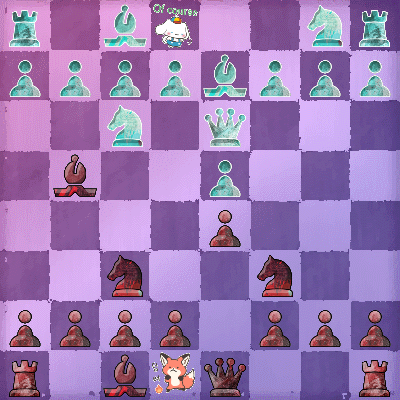
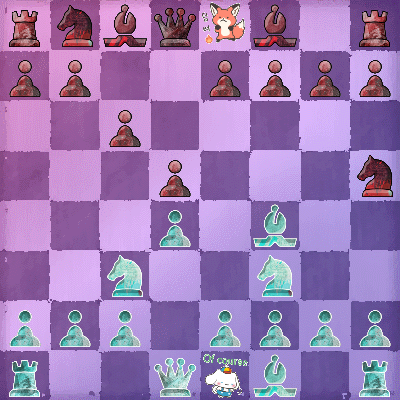
update new skin

diff --git a/src/main/resources/static/js/pgntogif.js b/src/main/resources/static/js/pgntogif.js
@@ -45,7 +45,6 @@ let black_bottom_opt = 0;
         images.push(dir_link + image_link + "/" + i.toString().padStart(2, '0') + imagetype);
     }
 
-
      const gallery = document.getElementById('image_gallery');
      idx = 0;
         // 이미지 배열을 순회하여 갤러리에 추가
@@ -53,24 +52,60 @@ let black_bottom_opt = 0;
             // div.col 생성
             const colDiv = document.createElement('div');
             colDiv.className = 'col-md-4';
-            // img 태그 생성
+            // input 태그 생성
+            const inputElement = document.createElement('input');
+            inputElement.type = 'file';
+            inputElement.id = label_name[idx] + " upload";
+            inputElement.accept = "image/*";
+            inputElement.style = "display: none;";
+            inputElement.addEventListener('change',update_img(idx, label_name[idx]));
+
+            //img 태그 생성
             const imgElement = document.createElement('img');
             imgElement.src = src;
             imgElement.className = 'img-fluid mini';
             imgElement.alt = src;
             imgElement.id = label_name[idx];
+            imgElement.addEventListener('click',uploading(inputElement.id));
 
             const labelDiv = document.createElement('div');
             labelDiv.className = 'label';
-            labelDiv.textContent = label_name[idx];
+            labelDiv.textContent = label_name[idx] + " label";
             idx = idx + 1;
             // colDiv에 img 태그 추가
             colDiv.appendChild(imgElement);
+            colDiv.appendChild(inputElement);
             colDiv.appendChild(labelDiv);
             // gallery 요소에 colDiv 추가
             gallery.appendChild(colDiv);
         });
  }
+
+ function uploading(upload_id)
+ {
+    return function(event){
+      const fileInput = document.getElementById(upload_id);
+      fileInput.click();
+      };
+ }
+
+  function update_img(idx,img_id)
+  {
+         return function(event){
+          const file = event.target.files[0];
+
+          if (file) {
+              const reader = new FileReader();
+              reader.onload = function(e) {
+                  images[idx] = e.target.result;
+                  const img = document.getElementById(img_id);
+                  img.src = images[idx];
+              };
+              reader.readAsDataURL(file);
+          }
+      }
+  }
+
 
   function getDropdownValue() {
              // 드롭다운 요소 가져오기
@@ -80,7 +115,7 @@ let black_bottom_opt = 0;
                 localStorage.setItem('skin_data', selectedValue);
                 image_link = selectedValue;
 
-                  for (let i = 0; i <= 12; i++) {
+                  for (let i = 0; i < 1; i++) {
                         images[i] = dir_link + image_link + "/" + i.toString().padStart(2, '0') + ".png";
                         document.getElementById(label_name[i]).src = images[i];
                         document.getElementById(label_name[i]).alt = images[i];
@@ -94,6 +129,11 @@ let black_bottom_opt = 0;
     pgndata = document.getElementById('pgndata').value;
     const checkedRadio = document.querySelector('input[name="sideRadios"]:checked');
     let black_bottom_opt = checkedRadio.value;
+    let skin_dir = "[";
+    for (let i = 0; i <= 12; i++) {
+        skin_dir = skin_dir + images[i] + ",";
+    }
+    skin_dir = skin_dir.slice(0,-1) + "]";
 
     const checkedSpeed = document.querySelector('input[name="Speeds"]:checked');
     let speed0 = checkedSpeed.value;
@@ -102,6 +142,7 @@ let black_bottom_opt = 0;
       pgndata: pgndata,
       black_bottom_opt: black_bottom_opt,
       input_link : dir_link + image_link,
+      skin_dir : skin_dir,
       delay : speed0
     };
 
@@ -117,7 +158,6 @@ let black_bottom_opt = 0;
       .then(response => response.json())
       .then(data => {
         //console.log(data.output_dir); // 서버의 응답을 처리합니다
-
         gif_src = data.output_dir;
         gif_id = data.id;
         showingGifdata();
@@ -139,7 +179,7 @@ let black_bottom_opt = 0;
          imgElement.className = 'img-fluid midium';
          imgElement.alt = src0;
          imgElement.id = id0;
-          imgElement.addEventListener('click', () => {
+         imgElement.addEventListener('click', () => {
                const link = document.createElement('a');
                link.href = src0;
                link.download = 'result.gif';  // 원하는 파일 이름document.body.appendChild(link);

diff --git a/src/main/resources/templates/pgntogif.html b/src/main/resources/templates/pgntogif.html
@@ -35,17 +35,17 @@
 <section id = "main-part" class ="pt-5 pt-5">
     <div class="dropdown my-3 mx-3">
         <button class="btn btn-primary dropdown-toggle" type="button" id="dropdownMenuButton" data-toggle="dropdown" aria-haspopup="true" aria-expanded="false">
-            Select an skin
             <div class="form-group">
-                <label for="skinselect">choose skin</label>
+                <label for="skinselect">Change Board Skin</label>
                 <select class="form-control" id="skinselect">
-                    <option value="skin1">skin1</option>
-                    <option value="skin2">skin2</option>
+                    <option value="skin1">board1</option>
+                    <option value="skin2">board2</option>
                 </select>
             </div>
+        </button>
     </div>
 
-    <button class="btn btn-primary mx-3" onclick="getDropdownValue()">Get Skin Data</button>
+    <button class="btn btn-primary mx-3" onclick="getDropdownValue()">Change it</button>
 
     <div class="container my-5">
         <h2>Skin Data</h2>

diff --git a/src/main/resources/templates/main.html b/src/main/resources/templates/main.html
@@ -80,7 +80,7 @@
 
 <!-- 스킨 선택창 -->
 <div class="container my-4">
-    <h1 class="text-center mb-4">Select Skin</h1>
+    <h1 class="text-center mb-4">Select Piece Skin</h1>
     <div class="row">
         <!-- Gallery Item 1 -->
         <div class="col-md-4 mb-4">

diff --git a/src/main/resources/static/js/main.js b/src/main/resources/static/js/main.js
@@ -36,7 +36,7 @@
         for (const src of result) {
             count = count + 1;
 
-            if(count > 99)
+            if(count > 9)
             {
                 break;
             }

diff --git a/src/main/java/com/profrog/chessx2/Chessx2Application.java b/src/main/java/com/profrog/chessx2/Chessx2Application.java
@@ -13,7 +13,6 @@ import org.springframework.web.bind.annotation.PostMapping;
 import org.springframework.web.bind.annotation.RestController;
 import org.springframework.web.bind.annotation.RequestBody;
 
-
 import java.io.File;
 import java.io.IOException;
 import java.io.ObjectInputFilter;
@@ -37,6 +36,9 @@ public class Chessx2Application {
 		String dir0 = "\\output";
 		String pgndata = data.get("pgndata");
 		int black_bottom_opt = Integer.parseInt(data.get("black_bottom_opt"));
+		String skin_dir = data.get("skin_dir");
+		skin_dir = skin_dir.replace("./",path_dir);
+		System.out.println("dddd" + skin_dir);
 
 		String input_link = data.get("input_link");
 		input_link = path_dir + input_link.substring(1);
@@ -46,11 +48,10 @@ public class Chessx2Application {
 		ClassPathResource resource0 = new ClassPathResource("static/images/chesschess.png");
 		String output_link = Paths.get(resource0.getURI()).getParent().toString();
 		File directory = new File(path.toString() + "/output");
-		deleteFolder(directory);
 
 		//System.out.println("*******" + black_bottom_opt);
 		List<int[][]> alpa =  PgnParse.parserInit(pgndata,black_bottom_opt,0);
-		String input_dir = PgnToImage.imageInit(alpa,path.toString());
+		String input_dir = PgnToImage.imageInit(alpa,path.toString(),skin_dir);
 		System.out.println(gif_name);
 		int delay = Integer.parseInt(data.get("delay"));
 		ImageToGif.gifInit(output_link + gif_name, input_dir, delay);
@@ -103,19 +104,6 @@ public class Chessx2Application {
 		return mapper.writeValueAsString(returning);
 	}
 
-	public static boolean deleteFolder(File folder) {
-		File[] files = folder.listFiles();
-		if (files != null) {  // 폴더가 비어있지 않은 경우
-			for (File file : files) {
-				if (file.isDirectory()) {
-					deleteFolder(file);  // 재귀적으로 하위 폴더 삭제
-				} else {
-					file.delete();  // 파일 삭제
-				}
-			}
-		}
-		return folder.delete();  // 최종적으로 폴더 삭제
-	}
 }
 
 
